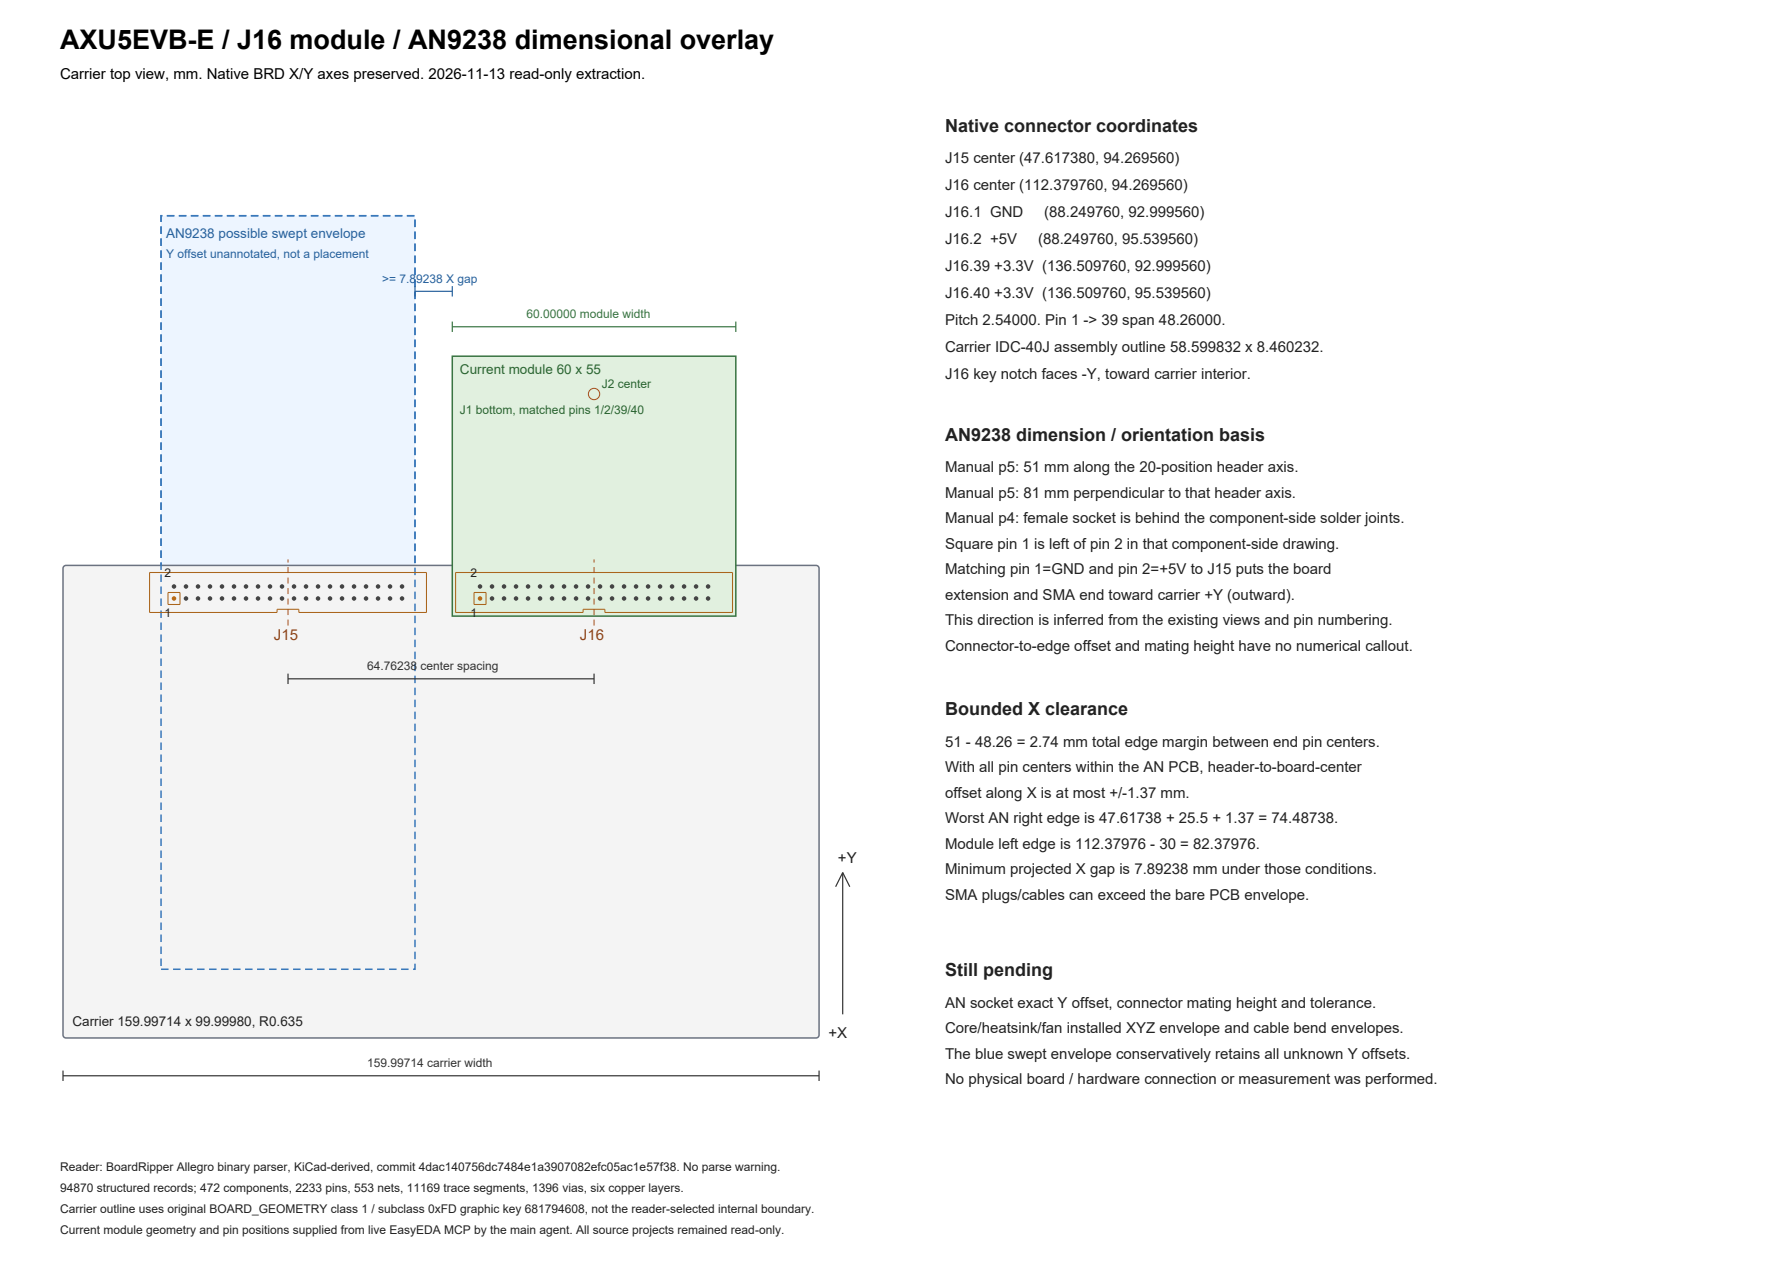
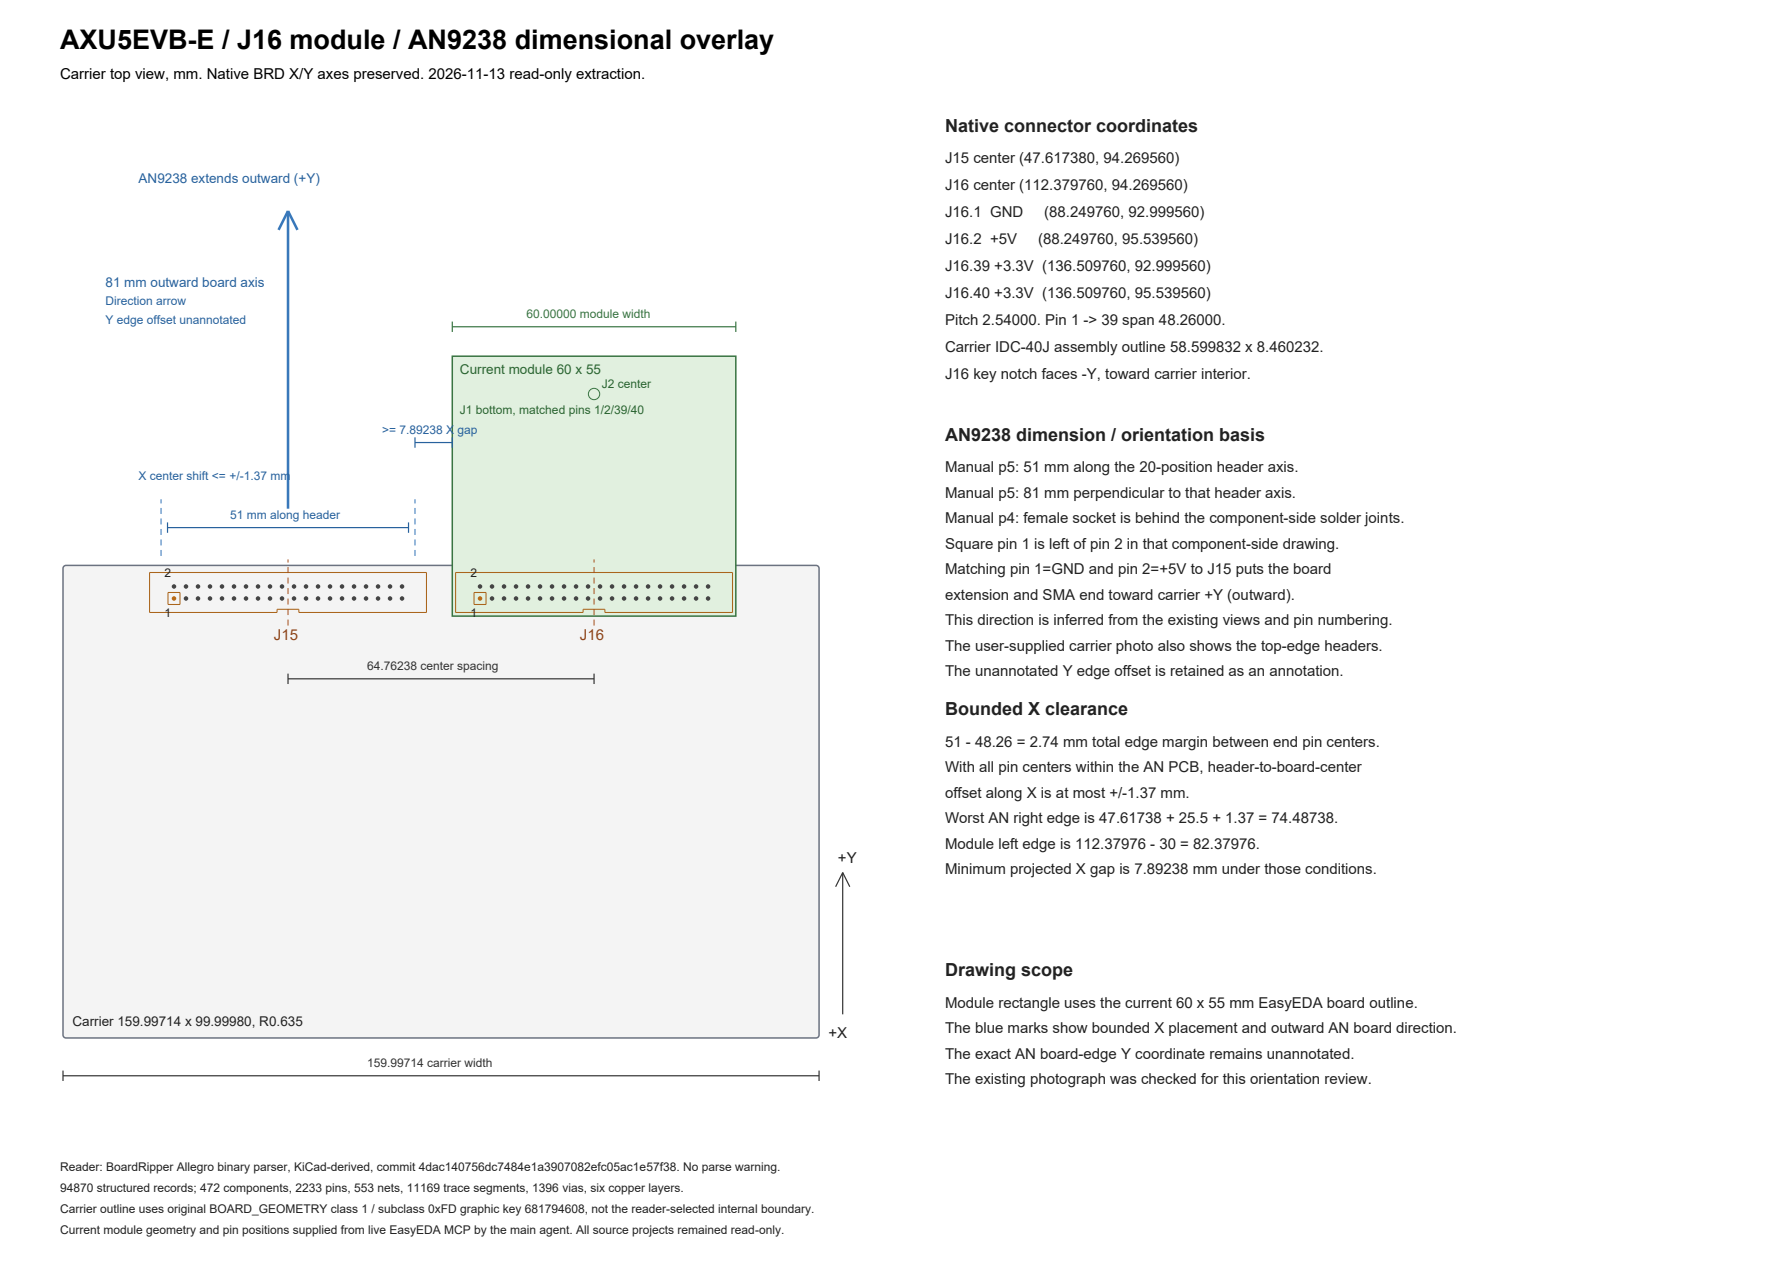
Finalize prototype release conclusion and delivery checks for #3

diff --git a/docs/review_checklist.md b/docs/review_checklist.md
@@ -10,9 +10,9 @@
 | 04 | OE网络、偏置及驱动板U21 | Q1独立控制PWM，Q2控制U2/3，默认禁止。REL/EN默认低，F_RESET预高后开CTRL，清故障与PWM放行独立。CTRL关闭时反馈无效，独立核心掉电瞬态待测。 | 连接符合，瞬态待实测 |
 | 05 | TI PW24、onsemi CASE318 | Q1/Q2改用MMBT3904LT1G/C81464，原厂1=B、2=E、3=C。保留已核对的SOT-23焊盘，跨排中心距2.000mm、同排1.900mm、盘1.000×0.650mm，匹配原厂尺寸范围。电容与电阻额定值保持前轮结果。 | 料号及引脚闭合 |
 | 06 | Sullins 11160 Rev J | J1改为真实带键板焊母座SFH11-PBPC-D20-ST-BK，C5909928，40针/2.54mm。同步器件、封装和模型，保留标准带键版本。 | 已修改 |
-| 07 | 原生B-E BRD、J1实际40焊盘 | J16中心(112.379760,94.269560)mm，1/2在x88.249760、y92.999560/95.539560，分别GND/5V；39/40在x136.509760，对应3.3V。J1底装后的40针及朝−Y键侧对应。载板接头装配轮廓58.599832×8.460232mm；内腔、有效针长及接触重叠仍缺尺寸。 | 针位/键侧XY闭合，插合高度待检查 |
-| 08 | MBDL4原库、Hanxia及Sullins图 | 数字口原库Pad1为方盘，奇数排靠键侧，与本板J2一致。公母均2×13/2.54mm，键3.60±0.20与槽4.50±0.20，最小总余量0.50mm。J2焊尾更正为3.20±0.25mm。公座内净长宽、母头接触深度尚缺。 | 编号/键宽闭合，内腔/接触待检查 |
-| 09 | 原生BRD及AN9238手册p4–5 | J15中心(47.617380,94.269560)mm，两口距64.762380mm。AN的51mm沿针排、81mm朝载板外侧+Y，朝向由既有观察面及1/2针对应推导。按针中心在板内的偏置界限，双子板X投影间隙≥7.89238mm。精确Y偏置、叠高及散热器/线缆包络仍缺。 | XY有界间距闭合，完整装配待检查 |
+| 07 | 原生B-E BRD、J1实际40焊盘 | J16中心(112.379760,94.269560)mm，1/2在x88.249760、y92.999560/95.539560，分别GND/5V；39/40在x136.509760，对应3.3V。J1底装后的40针及朝−Y键侧对应，载板接头装配轮廓58.599832×8.460232mm。厂家未标内腔及有效接触尺寸，实际插合留首板安装确认。 | 针位/键侧设计符合，实配留首板 |
+| 08 | MBDL4原库、Hanxia及Sullins图 | 数字口原库Pad1为方盘，奇数排靠键侧，与本板J2一致。公母均2×13/2.54mm，键3.60±0.20与槽4.50±0.20，最小总余量0.50mm。J2焊尾为3.20±0.25mm。实际插合与排线通断留首板安装确认。 | 编号/键宽设计符合，实配留首板 |
+| 09 | 原生BRD、AN9238手册及用户实物图 | J15中心(47.617380,94.269560)mm，两口距64.762380mm。AN的51mm沿针排，81mm朝载板外侧+Y。按针中心在板内的偏置界限，双子板X间隙≥7.89238mm。实物图中J16在上方右侧，子板按板外方向伸出，与板内散热器/风扇区域分开。 | 板外方向及X间距符合 |
 | 10 | 原生板框、装配叠合图 | 本板闭合60×55mm，叠装载板坐标为x82.379760…142.379760/y89.269560…144.269560。原载板159.99714×99.99980mm、R0.635。J2插拔宜使用绝缘托撑，支撑高度随实际配合尺寸确定。 | 板框闭合，支撑留装配 |
 | 11 | 当前原生焊盘/阻焊测量 | C10/C11仍在y9.5mm，位置无变化。J1盘增大后，铜边距1.3376/1.3300mm，阻焊边距1.2324/1.2284mm。入口电源—电容—邻地过孔短支路保留。 | 符合 |
 | 12 | 本体轮廓、铜及阻焊测量 | R26/Q1、R28/Q2本体间距1.55mm，铜0.343mm。C1/R3本体0.989mm，R19/R30本体1.8mm。小元件本体最小0.820mm，无重叠；0.5/1mm仅作布局目标。 | 已测量 |
@@ -35,11 +35,11 @@
 | 类别 | 结论 |
 |---|---|
 | 已闭合 | 原始BRD的J15/J16坐标、40针及键侧，MBDL4库编号/键侧，双子板有界X间距，Q1/Q2厂家引脚，局部铜隙、孔环、两面阻焊、钻孔及最终输出。 |
-| 制板前必须解决 | J1/J16与J2母头的内腔和有效插入/接触尺寸，以及AN9238连接器近边精确Y偏置、实际叠高、散热器/风扇及SMA/J2线缆装配包络。当前资料不足以签核完整直接插装，暂不作“可小批量首板打样”的整体结论。 |
+| 制板前必须解决 | 本轮范围内的电气连接、孔位与防呆方向、板间XY和制造检查已闭合，可小批量首板裸板打样，用于后续无功率接口联调。 |
 | 非阻塞优化 | 个别信号换层旁补GND过孔，绝缘托撑方案，以及两条已解释的自定义封装名称警告。若转厂家贴装，再按具体钢网/SMT要求整理生产资料。 |
-| 留待首板测试 | 排线逐针通断、PWM带载电平/电流/脉宽与关断、反馈及串扰/误触发波形、核心独立掉电瞬态。 |
+| 留待首板测试 | 连接器实际插合与装配、排线逐针通断、PWM带载电平/电流/脉宽与关断、反馈及串扰/误触发波形、核心独立掉电瞬态。 |
 
-[带尺寸装配叠合图](../hardware/v0.1/review/assembly_overlay.png)按载板顶视、+Y朝连接器外侧绘制。蓝色为AN9238未知Y偏置的扫掠包络，完整Z向配合仍待尺寸依据。本轮原BRD使用BoardRipper原生Allegro16.6解析器，94870个结构记录、472器件、2233针、11169线段、1396过孔，解析无警告。板框按原始BOARD_GEOMETRY对象链定位，并与手册160×100mm相互核对。MBDL4的SCHLIB/PcbLib按结构化二进制记录读取，该目录未含板级布局。原件与完整解析数据保留在忽略目录。[读取器版本](https://github.com/AlexeyInwerp/BoardRipper/tree/4dac140756dc7484e1a3907082efc05ac1e57f38)
+[带尺寸装配叠合图](../hardware/v0.1/review/assembly_overlay.png)按载板顶视、+Y朝连接器外侧绘制。图中按已核对的板外方向表示AN9238，精确连接器到板边的Y偏置未标，方向示意与数值测量分别标注。根据用户实物图修正了上一版把散热器、风扇和线缆包络列成制板前提的过度要求。本轮原BRD使用BoardRipper原生Allegro16.6解析器，94870个结构记录、472器件、2233针、11169线段、1396过孔，解析无警告。板框按原始BOARD_GEOMETRY对象链定位，并与手册160×100mm相互核对。MBDL4的SCHLIB/PcbLib按结构化二进制记录读取，该目录未含板级布局。原件与完整解析数据保留在忽略目录。[读取器版本](https://github.com/AlexeyInwerp/BoardRipper/tree/4dac140756dc7484e1a3907082efc05ac1e57f38)
 
 ## J1/J2局部异网间距
 

diff --git a/hardware/v0.1/README.md b/hardware/v0.1/README.md
@@ -13,13 +13,13 @@
 - [25项统一审查清单](../../docs/review_checklist.md)
 - [原生BRD尺寸核对与装配叠合图](review/assembly_overlay.png)
 
-本板设计尺寸为60 × 55 mm，双层FR4、1.6 mm标称板厚、约1oz铜。J1改用Sullins SFH11-PBPC-D20-ST-BK实体带键母座，底装180°，保留厂家库针号，PCB顶视1脚左下、2脚左上。J2为Hanxia HX JN2.54-2x13P ZZ H8.9无扳扣简牛，顶装、红边接1脚，两连接器孔径均1.02mm。实际插合、AN9238同时安装的空间及支撑仍待检查，细项见清单。
+本板设计尺寸为60 × 55 mm，双层FR4、1.6 mm标称板厚、约1oz铜。J1采用Sullins SFH11-PBPC-D20-ST-BK实体带键母座，底装180°，PCB顶视1脚左下、2脚左上。J2为Hanxia HX JN2.54-2x13P ZZ H8.9无扳扣简牛，顶装、红边接1脚，两连接器孔径均1.02mm。J16位于载板上边，子板朝板外伸出，双子板X间距已核对。实际插合及支撑留首板安装确认。
 
 原生 ZIP 的 Drill_PTH_Through.DRL 已包含全部 106 个通孔及过孔，人工 CAM 导入这一合并文件一次。Drill_PTH_Through_Via.DRL 为其中 40 个过孔的分类参考。PDF 由原生 4096 像素 PNG 等比排入 A3，保留可编辑工程用于电路修改。
 
 本轮在b004404和用户保存的当前工程上读取原生AXU BRD及MBDL4库，核对40/26针与键侧，生成带尺寸叠合图。J1盘径增至1.60mm、孔仍1.02mm；六段逻辑线由10改8mil，中心线及全部元件位置保留。Q1/Q2改为onsemi MMBT3904LT1G/C81464，复用经原厂尺寸核对的焊盘。C10/C11位置及用户A3分区保留。所有受影响图面及制造文件已重导。
 
-当前ERC为0错误、2条封装标题属性警告，原因及兼容性依据见25项清单。DRC与飞线均0，232焊盘映射差异0。最终六图CAM实际查看了两面铜/阻焊、顶焊膏、丝印、板框及钻孔。完整插合高度、内腔与散热器/线缆空间仍待尺寸依据，当前交付供人工审核。
+当前ERC为0错误、2条封装标题属性警告，原因及兼容性依据见25项清单。DRC与飞线均0，232焊盘映射差异0。最终六图CAM实际查看了两面铜/阻焊、顶焊膏、丝印、板框及钻孔。按已核对针位、板外方向与制造结果，建议小批量首板裸板打样；实际插合与电气性能留首板无功率检查。
 
 本轮生产建议为裸板、60×55mm、双层FR4、1.6mm、1oz、绿油白字、无铅喷锡，后续人工装配，SMD先焊、插件后按厂商允许工艺装配。工厂钢网及SMT参数随贴装方式另定。
 

diff --git a/docs/open_questions.md b/docs/open_questions.md
@@ -4,6 +4,6 @@
 - 按实际 AQM 编码器位移分辨率、解码倍率和最大线速度核对边沿间隔，测量线缆负载下的反馈高电平及边沿。
 - J16 电源持续存在、核心 VCCO 单独骤降时，检查 OE 关断过程及 FPGA 引脚注入。CTRL_EN 仅表示软件使能。
 - 核对 F_Reset 空闲高、低→高清锁存及 OE 切换边沿。初始化先 PWM_EN=0、RELCON/ENCON=0、F_RESET=1，再 CTRL_EN=1 读取反馈。清故障先撤销运行请求并消除故障原因，再发复位沿、检查 ERRI/ERRU，由 PWM_EN 独立放行。切换 CTRL_EN 前恢复 F_Reset 空闲高。
-- 原生BRD已核对J15/J16中心距64.76238mm、40针与键侧，MBDL4库编号/键侧及Q1/Q2原厂引脚已闭合。当前需补齐连接器内腔及有效接触尺寸、AN9238近边Y偏置和实际叠高、散热器/风扇及线缆包络。详见[25项审查清单](review_checklist.md)与[叠合图](../hardware/v0.1/review/assembly_overlay.png)。
+- 原生BRD已核对J15/J16中心距64.76238mm、40针与键侧，MBDL4库编号/键侧及Q1/Q2原厂引脚已闭合。结合用户实物图，J16子板按板外方向伸出。连接器实际插合及排线通断列为首板安装检查，制造前检查结果见[25项审查清单](review_checklist.md)与[叠合图](../hardware/v0.1/review/assembly_overlay.png)。
 
 测量可使用现有 C10/C11、R13/R19 和 J2 焊盘，定位见[设计说明](schematic_v0.1.md)。以上实物测量和机械装配项目尚未执行。当前原理图与 PCB 的实际检查结果见[交付检查结果](../hardware/v0.1/review/check_results.json)。
